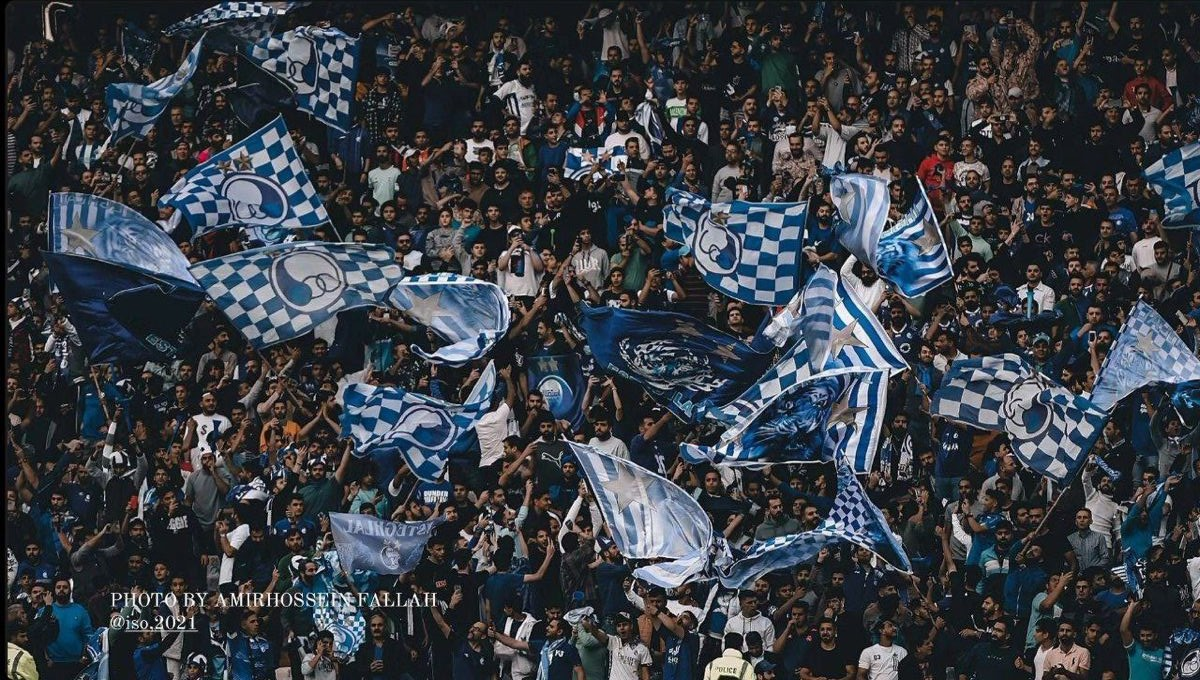
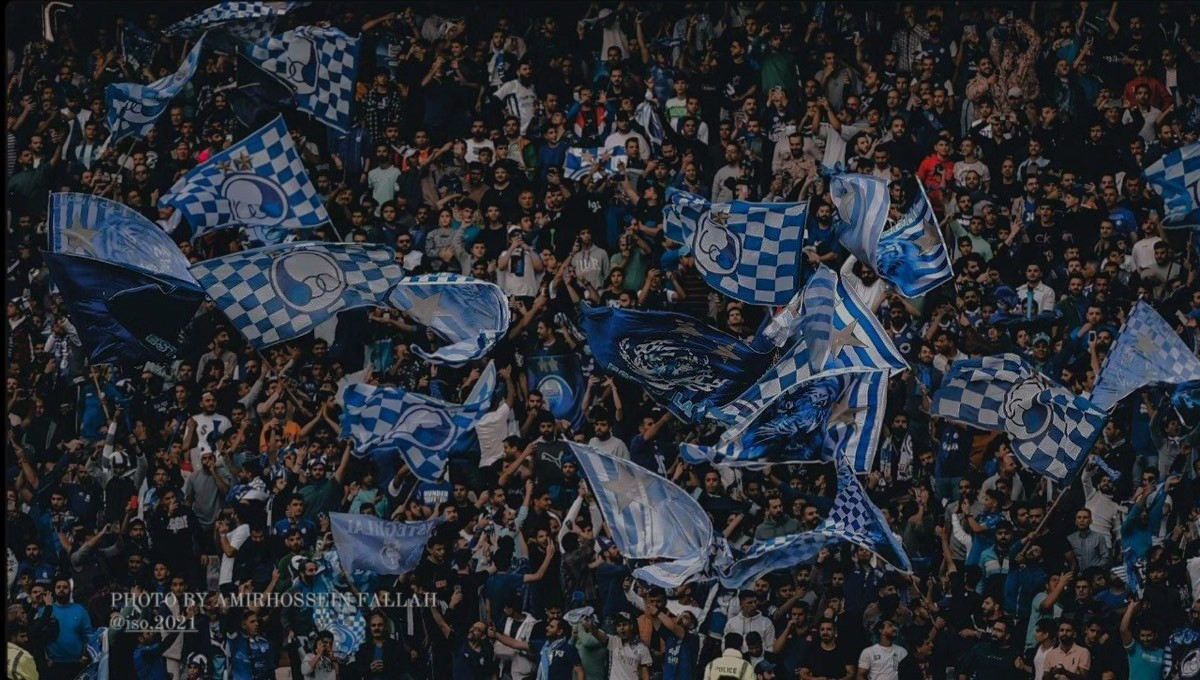
beta

diff --git a/index.html b/index.html
@@ -11,7 +11,7 @@
 
 </head>
 
-<body dir="rtl">
+<body dir="rtl" class="text-right">
 
     <!-- nav element    -->
     <div id="nav-div">
@@ -55,19 +55,7 @@
                         </a>
                     </li>
                 </ul>
-                <!--Socials
-                <div class="nav-icons d-none d-lg-block">
-                    <a href="#" class="nav-icon">
-                        <i class="fa fa-facebook"></i>
-                    </a>
-                    <a href="#" class="nav-icon">
-                        <i class="fa fa-twitter"></i>
-                    </a>
-                    <a href="#" class="nav-icon">
-                        <i class="fa fa-instagram"></i>
-                    </a>
-                </div>
-                <end Socials-->
+
             </div>
 
         </nav>
@@ -94,38 +82,38 @@
             <section class="sec-news">
                 <article class="article-items">
                     <a href="#">
-                        <img class="news-img" src="images/News1.png" width="110px" height="55">
-                        <p class="news-title">عضو جدید هیئت مدیره مشخص شد</p>
+                        <img class="news-img " src="images/News1.png" width="110px" height="55">
+                        <p class="news-title mt-1" >عضو جدید هیئت مدیره مشخص شد</p>
                     </a>
                 </article>
                 <article class="article-items">
                     <a href="#">
                         <img class="news-img" src="images/News2.png" width="110px" height="55">
-                        <p class="news-title">در دفاع و حمله: حساب ویژه موسیمانه روی دو ستاره</p>
+                        <p class="news-title mt-1">در دفاع و حمله: حساب ویژه موسیمانه روی دو ستاره</p>
                     </a>
                 </article>
                 <article class="article-items">
                     <a href="#">
                         <img class="news-img" src="images/News3.png" width="110px" height="55">
-                        <p class="news-title">وضعیت جهار ستاره مصدوم استقلال قبل از الاهلی</p>
+                        <p class="news-title mt-1">وضعیت جهار ستاره مصدوم استقلال قبل از الاهلی</p>
                     </a>
                 </article>
                 <article class="article-items">
                     <a href="#">
                         <img class="news-img" src="images/News4.png" width="110px" height="55">
-                        <p class="news-title">جنس استقلال برای گل نخوردن جور شد</p>
+                        <p class="news-title mt-1">جنس استقلال برای گل نخوردن جور شد</p>
                     </a>
                 </article>
                 <article class="article-items">
                     <a href="#">
                         <img class="news-img" src="images/news5.png" width="110px" height="55">
-                        <p class="news-title">شکایت ارسلان مطهری از باشگاه استقلال</p>
+                        <p class="news-title mt-1">شکایت ارسلان مطهری از باشگاه استقلال</p>
                     </a>
                 </article>
                 <article class="article-items">
                     <a href="#">
                         <img class="news-img" src="images/News6.jpeg" width="110px" height="55">
-                        <p class="news-title">حجت کریمی: اگر آن وام نبود، در لیگ نخبگان نبودیم</p>
+                        <p class="news-title mt-1">حجت کریمی: اگر آن وام نبود، در لیگ نخبگان نبودیم</p>
                     </a>
                 </article>
             </section>
@@ -146,28 +134,28 @@
 
                     <div class="matches-div">
                         <div class="match-container">
-                            <p>لیگ نخبگان آسیا</p>
+                            <p class="mr-3">لیگ نخبگان آسیا</p>
 
                             <img src="images/nokhbegan-logo.png" class="logo-leage nokhbegan">
 
                         </div>
-                        <p class="text-right text-muted"><i class="fa fa-calendar"></i> ۱۹:۳۰ ۱۴۰۳/۰۹/۰۵ </p>
+                        <p class="text-right text-muted"><i class="fa fa-calendar mr-3"></i> ۱۹:۳۰ ۱۴۰۳/۰۹/۰۵ </p>
                         <div class="mt-4">
                             <div class="d-flex justify-content-between align-items-center">
                                 <div class="d-flex align-items-center">
-                                    <img src="images/logo-removebg-preview.png" width="auto" height="60px" class="me-2">
+                                    <img src="images/logo-removebg-preview.png" width="auto" height="60px" class="me-2 mr-1">
                                     <span>استقلال</span>
-                                    &nbsp; &nbsp;
-                                    <span> صفر</span>
+                                    
+                                    <span class="h3 mt-2 mr-4"> ۰</span>
                                 </div>
                             </div>
                             <hr class="divider my-3">
                             <div class="d-flex justify-content-between align-items-center">
                                 <div class="d-flex align-items-center">
-                                    <img src="images/pakhtakor-logo.png" width="auto" height="60px" class="me-2 ">
+                                    <img src="images/pakhtakor-logo.png" width="auto" height="60px" class="me-2 mr-2">
                                     <span>پاختاکور</span>
-                                    &nbsp; &nbsp;
-                                    <span>0</span>
+                                    
+                                    <span class="mr-4 mt-2 h3"> ۰</span>
                                 </div>
                             </div>
                         </div>
@@ -175,17 +163,20 @@
                             <button type="button" class="btn btn-info btn-block my-ticket-btn" disabled>خرید
                                 بلیط</button>
                         </div>
+                        <p class="matches-time mt-3">
+                            بازی گذشته
+                        </p>
                     </div>
                     <div class="matches-div disabled">
                         <div class="match-container">
-                            <p> لیگ نخبگان آسیا</p>
-                            <img src="images/nokhbegan-logo.png" class="logo-leage nokhbegan">
+                            <p class="mr-3"> لیگ نخبگان آسیا</p>
+                            <img src="images/nokhbegan-logo.png" class="logo-leage nokhbegan ">
                         </div>
-                        <p class="text-right text-muted"><i class="fa fa-calendar"></i> ۱۹:۳۰ ۱۴۰۳/۰۹/۱۲</p>
+                        <p class="text-right text-muted"><i class="fa fa-calendar mr-3"></i> ۱۹:۳۰ ۱۴۰۳/۰۹/۱۲</p>
                         <div class="mt-4">
                             <div class="d-flex justify-content-between align-items-center">
                                 <div class="d-flex align-items-center">
-                                    <img src="images/logo-removebg-preview.png" width="auto" height="60px" class="me-2">
+                                    <img src="images/logo-removebg-preview.png" width="auto" height="60px" class="me-2 mr-2">
                                     <span>استقلال</span>
                                     &nbsp; &nbsp;
                                     <span> </span>
@@ -194,7 +185,7 @@
                             <hr class="divider my-3">
                             <div class="d-flex justify-content-between align-items-center">
                                 <div class="d-flex align-items-center">
-                                    <img src="images/alahli-logo.png" width="auto" height="60px" class="me-2 ">
+                                    <img src="images/alahli-logo.png" width="auto" height="60px" class="me-2 mr-3">
                                     <span>الاهلی</span>
                                     &nbsp; &nbsp;
                                     <span></span>
@@ -204,33 +195,39 @@
                         <div class="buy-ticket-div">
                             <button type="button" class="btn btn-info btn-block my-ticket-btn">خرید بلیط</button>
                         </div>
+                        <p class="matches-time mt-3">
+                            بازی آینده
+                        </p>
                     </div>
                     <div class="matches-div">
                         <div class="match-container">
-                            <p>لیگ برتر خلیج فارس</p>
+                            <p class="mr-3">لیگ برتر خلیج فارس</p>
                             <img src="images/priemir-leag-icon.png" class="logo-leage">
                         </div>
-                        <p class="text-right text-muted"> <i class="fa fa-calendar"></i> ۲۰:۰۰ ۱۴۰۳/۰۹/۱۷ </p>
+                        <p class="text-right text-muted"> <i class="fa fa-calendar mr-3"></i> ۲۰:۰۰ ۱۴۰۳/۰۹/۱۷ </p>
                         <div class="mt-4">
                             <div class="d-flex justify-content-between align-items-center">
                                 <div class="d-flex align-items-center">
-                                    <img src="images/logo-removebg-preview.png" width="auto" height="60px" class="me-2">
+                                    <img src="images/logo-removebg-preview.png" width="auto" height="60px" class="me-2 mr-2">
                                     <span>استقلال</span>
                                 </div>
                             </div>
                             <hr class="divider my-3">
                             <div class="d-flex justify-content-between align-items-center">
                                 <div class="d-flex align-items-center">
-                                    <img src="images/foolad-logo.png" width="auto" height="60px" class="me-2">
+                                    <img src="images/foolad-logo.png" width="auto" height="60px" class="me-2 mr-2">
                                     <span>فولاد</span>
                                 </div>
                             </div>
                         </div>
                         <div style="height: 5px;"></div>
                         <div class="buy-ticket-div">
-                            <button type="button" class="btn btn-info btn-block my-ticket-btn" disabled>خرید
+                            <button type="button" class="btn btn-info btn-block my-ticket-btn mb-1" disabled>خرید
                                 بلیط</button>
                         </div>
+                        <p class="matches-time mt-2">
+                            بازی دورتر
+                        </p>
                     </div>
 
 
@@ -352,11 +349,13 @@
         <div class="trophies-container">
             <ul class="trophies-list">
                 <li>
+                    <p class="title-name">جام حذفی تهران</p>
                     <div class="img-trophy"><img class="img-trophy-icon" src="images/cups/جام حذفی تهران.png"
                             alt="جام حذفی تهران" title="جام حذفی تهران" style="max-width: 100%;" width="150px" height="150px"></div>
                     <div class="title">۴</div>
                 </li>
                 <li>
+                    <p class="title-name">جام باشگاه های تهران</p>
                     <div class="img-trophy">
                         <img src="images/cups/جام باشگاه های تهران.png" alt="جام باشگاه های تهران"
                             title="جام باشگاه های تهران" width="150px" height="150px">
@@ -364,21 +363,25 @@
                     <div class="title"> ۱۳</div>
                 </li>
                 <li>
+                    <p class="title-name">لیگ های ایران</p>
                     <div class="img-trophy"><img src="images/cups/لیگ های ایران.png" alt="لیگ های ایران"
                             title="لیگ های ایران" width="150px" height="150px"></div>
                     <div class="title">۹</div>
                 </li>
                 <li>
+                    <p class="title-name">قهرمانان آسیا </p>
                     <div class="img-trophy"><img src="images/cups/قهرمانان آسیا.png" alt=" قهرمانان آسیا "
                             title="قهرمانان آسیا" width="150px" height="150px"></div>
                     <div class="title">۲</div>
                 </li>
                 <li>
+                    <p class="title-name">جام حذفی ایران</p>
                     <div class="img-trophy"><img src="images/cups/جام حذفی ایران.png " alt="جام حذفی ایران"
                             title="جام حذفی ایران" width="150px" height="150px"></div>
                     <div class="title">۷</div>
                 </li>
                 <li>
+                    <p class="title-name">سوپر جام ایران</p>
                     <div class="img-trophy"><img src="images/cups/سوپر جام.png" alt=" سوپر جام ایران "
                             title="سوپر جام ایران" width="150px" height="150px"></div>
                     <div class="title">۱</div>

diff --git a/style.css b/style.css
@@ -64,20 +64,23 @@ body{
     color: var(--mainwhite);
     clip-path: polygon(0 0,100% 0,100% 95%,50% 100%, 0 95%);
     overflow: hidden;
-
+   
 }
 
 .height-max{
-    background: url(images/Esteghlal.jpg);
+    background: url(images/Esteghlal.jpg)   ;
+    
     height: 100vh;
     background-size: cover;
     background-attachment:fixed ;
-    
+    opacity: 90%;
     animation-name: zoom;
     animation-duration: 10s;
     animation-delay: 2s;
     animation-iteration-count: infinite;
+    
 }
+
 @keyframes zoom {
     0%{
         transform: scale(1);
@@ -92,6 +95,9 @@ body{
 .title-header{
     background: rgb(0,0,0,0.4, green, blue);
     border-right: 0.1em solid var(--mainblue);
+    opacity: 100% !important;
+    
+    
 } 
 /* Header end */
 /* news */
@@ -110,10 +116,12 @@ body{
     
 }
 .article-items{
-    width: 400px;
-    height: 200px;
-    
+    width: 390px;
+    height: 350px;
+    border-radius: 10px;
+   
 }
+
 .news-img{
     width: 100%;
     height: 80%;
@@ -129,8 +137,9 @@ body{
 
 .news-title{
     text-align: center;
-    font-size: 1rem;
+    font-size: 1.2rem;
     font: bolder;
+    
 }
 a{
     text-decoration: none;
@@ -139,7 +148,7 @@ a{
 /* news end */
 /* matches */
 .matches-div{
-    height: 340px;
+    height: 390px;
     width: 350px;
     border: 1px solid rgb(202, 202, 202);
     border-radius: 10px;
@@ -152,6 +161,9 @@ a{
     width: 100%;
     justify-content: space-around;
 
+}
+.match-container :first-child{
+    font-size: 1.5rem;
 }
 .match-container{
     text-align: right;
@@ -193,7 +205,7 @@ a{
 }
 .my-ticket-btn{
     height: 60px;
-    visibility: hidden;
+    /* visibility: hidden; */
 }
 .matches-div:hover{
     .my-ticket-btn{
@@ -205,6 +217,10 @@ a{
 }
 .my-ticket-btn:hover{
     cursor: pointer;
+}
+.matches-time{
+    font-size: 0.9rem;
+    text-align: center;
 }
 /* mtches end */
 .my-main{
@@ -288,7 +304,11 @@ a{
 .title{
     font-size: 2rem;
 }
-
+.title-name{
+    color: #515151;
+    margin-bottom: 0;
+    font-size: 1.1rem;
+}
 /* trophies end */
 /* sponsers */
 
